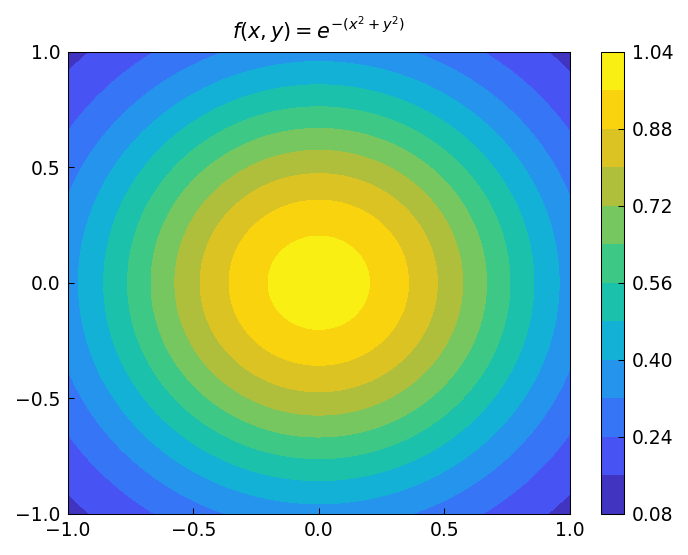
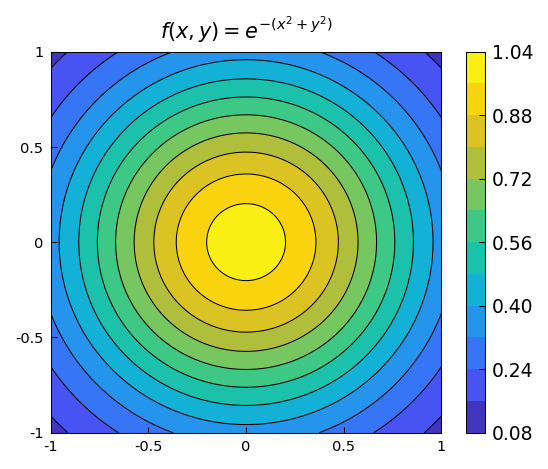
plotting.contour: parameterize filled/colorbar/figsize; de-fork chebfun2_basics
The shared contour helper had been retuned for the guide chapters (unfilled
parula lines, wide 6.1x2.58 box), which broke the chebfun2_basics example's
filled square reference; cf28f60 worked around it by rendering that contour
inline. Reconcile via parameters instead of a fork:

- line_color: overlaid contour-line colour (default None = colormap, the
  guide style; pass "k" for the black lines the filled chebfun2 reference
  uses).
- colorbar: attach a colorbar to the filled bands (default False).
- figsize: figure size (default (6.1, 2.58), the guide box; square renders
  pass a squarer size).
- With a colorbar, skip both the forced equal aspect and tight_layout --
  both fight the colorbar (tight_layout re-flows the axes and blows up the
  bbox_inches='tight' crop). The no-colorbar guide path is unchanged.

chebfun2_basics now calls the shared helper
(filled + line_color="k" + colorbar + square figsize) instead of the inline
block. chebfun2_basics_contour badness 0.136 -> 0.109 (now renders the
reference's black contour lines, which the inline contourf lacked). Every
existing default caller (line_color=None, colorbar=False, figsize default)
takes the identical code path as before, so the NOT_REGENERATED guide/
example contour placeholders are unaffected.

Plotting/contour tests: 51 passed, 17 skipped.

diff --git a/src/chebfunjax/plotting.py b/src/chebfunjax/plotting.py
@@ -670,12 +670,15 @@ def contour(
     levels: int = 12,
     cmap=None,
     filled: bool = False,
+    line_color=None,
+    colorbar: bool = False,
+    figsize: tuple = (6.1, 2.58),
     **kw,
 ) -> tuple[plt.Figure, plt.Axes]:
     """Contour plot of a Chebfun2 (MATLAB Chebfun style).
 
-    By default draws filled contours with black contour lines overlaid,
-    using the parula colormap and unit-domain ticks.
+    Draws contour lines (optionally over filled bands) using the parula
+    colormap and unit-domain ticks.
 
     Parameters
     ----------
@@ -686,8 +689,19 @@ def contour(
     levels : int
     cmap : colormap, optional  (default: parula)
     filled : bool
-        If True (default), use contourf + contour overlay.  If False,
-        contour lines only.
+        If True, draw filled bands (contourf) under the contour lines.
+        Default False (lines only).
+    line_color : color spec, optional
+        Colour for the overlaid contour lines.  Default None uses the
+        colormap (guide-chapter style).  Pass e.g. ``"k"`` for the black
+        contour lines the filled chebfun2 reference renders use.
+    colorbar : bool
+        If True, attach a colorbar to the filled bands (needs ``filled``).
+        Default False.
+    figsize : tuple
+        Figure size when creating a new figure.  Default (6.1, 2.58) is the
+        wide guide-chapter box; filled square renders (e.g. chebfun2_basics)
+        pass a squarer size.
 
     Returns
     -------
@@ -706,19 +720,36 @@ def contour(
     ZZ = _eval_2d_vectorized(f2, XX, YY)
 
     if ax is None:
-        fig, ax = plt.subplots(figsize=(6.1, 2.58))
+        fig, ax = plt.subplots(figsize=figsize)
     else:
         fig = ax.get_figure()
 
+    cf = None
     if filled:
-        ax.contourf(XX, YY, ZZ, levels=levels, cmap=cmap_obj, **kw)
-    ax.contour(XX, YY, ZZ, levels=levels, cmap=cmap_obj, linewidths=0.8, **kw)
+        cf = ax.contourf(XX, YY, ZZ, levels=levels, cmap=cmap_obj, **kw)
+    if line_color is None:
+        ax.contour(XX, YY, ZZ, levels=levels, cmap=cmap_obj,
+                   linewidths=0.8, **kw)
+    else:
+        ax.contour(XX, YY, ZZ, levels=levels, colors=line_color,
+                   linewidths=0.5, **kw)
 
-    ax.set_aspect("equal")
+    has_colorbar = colorbar and cf is not None
+    if has_colorbar:
+        fig.colorbar(cf, ax=ax)
+
+    # With a colorbar the reference render lets the plot fill the box; a
+    # forced equal aspect just shrinks it and leaves whitespace. Without a
+    # colorbar (guide-chapter style) keep the square aspect.
+    if not has_colorbar:
+        ax.set_aspect("equal")
     _set_unit_ticks(ax, domain=(x0, x1, y0, y1))
     _apply_style(ax, title=title, grid=False)
     fig.set_facecolor("white")
-    fig.tight_layout(pad=0.5)
+    # tight_layout fights an attached colorbar (it re-flows the axes and
+    # blows up the bbox_inches='tight' crop); skip it in that case.
+    if not has_colorbar:
+        fig.tight_layout(pad=0.5)
     return fig, ax
 
 

diff --git a/examples/approx2/chebfun2_basics.py b/examples/approx2/chebfun2_basics.py
@@ -56,19 +56,16 @@ def run():
                   dpi=150, bbox_inches='tight')
     plt.close(fig_s)
 
-    # Filled contour of the Chebfun2 (matches the reference render: viridis
-    # contourf with a continuous colorbar on the unit square).
-    xs = np.linspace(-1.0, 1.0, 150)
-    ys = np.linspace(-1.0, 1.0, 150)
-    XX, YY = np.meshgrid(xs, ys)
-    ZZ = np.array(f(jnp.asarray(XX), jnp.asarray(YY)), dtype=float)
-    from chebfunjax.plotting import PARULA
-    fig_c, ax_c = plt.subplots(figsize=(5.4, 4.0))
-    cs = ax_c.contourf(XX, YY, ZZ, levels=12, cmap=PARULA)
-    fig_c.colorbar(cs, ax=ax_c)
-    ax_c.set_title(r"$f(x,y) = e^{-(x^2+y^2)}$")
-    ax_c.set_xticks([-1, -0.5, 0, 0.5, 1])
-    ax_c.set_yticks([-1, -0.5, 0, 0.5, 1])
+    # Filled contour of the Chebfun2, matching the reference render: parula
+    # contourf with black contour lines and a colorbar on the unit square.
+    # Uses the shared plotting.contour helper (filled + black line overlay +
+    # colorbar + square box) rather than an inline fork.
+    from chebfunjax.plotting import contour
+
+    fig_c, ax_c = contour(
+        f, title=r"$f(x,y) = e^{-(x^2+y^2)}$", levels=12, filled=True,
+        line_color="k", colorbar=True, figsize=(4.2, 3.3),
+    )
     fig_c.savefig(os.path.join(outdir, 'chebfun2_basics_contour.png'),
                   dpi=150, bbox_inches='tight')
     plt.close(fig_c)
